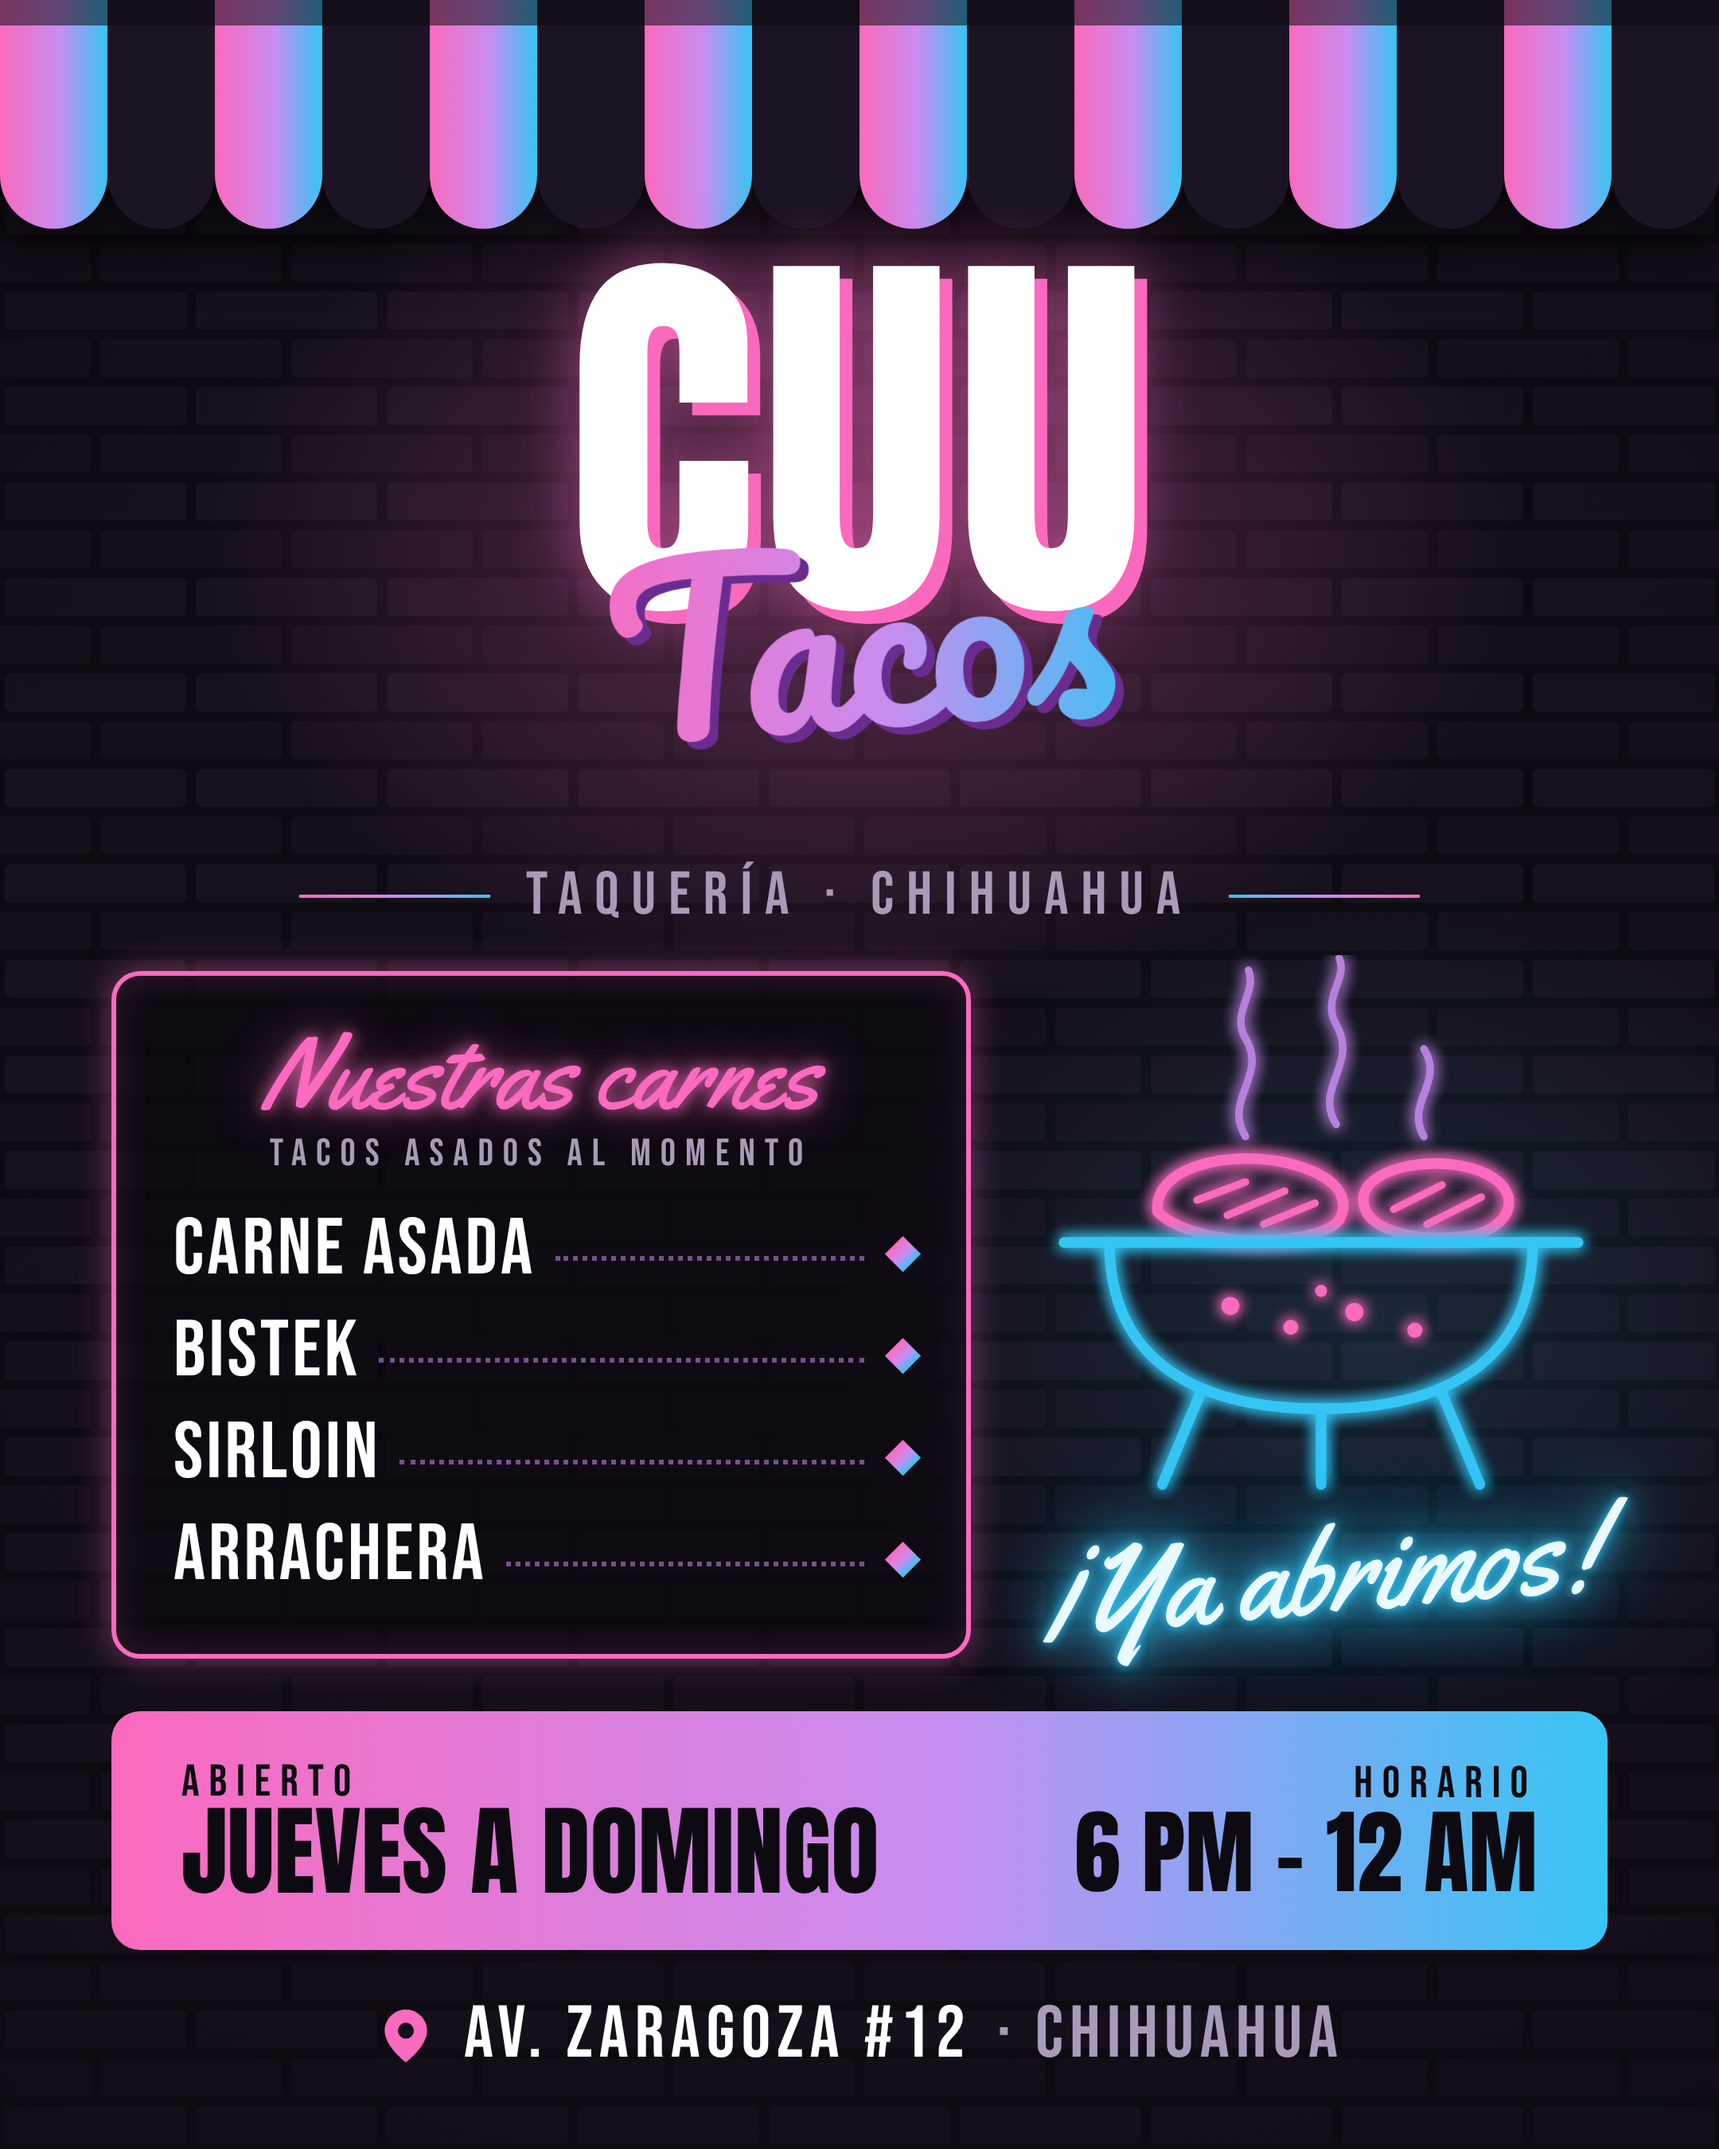
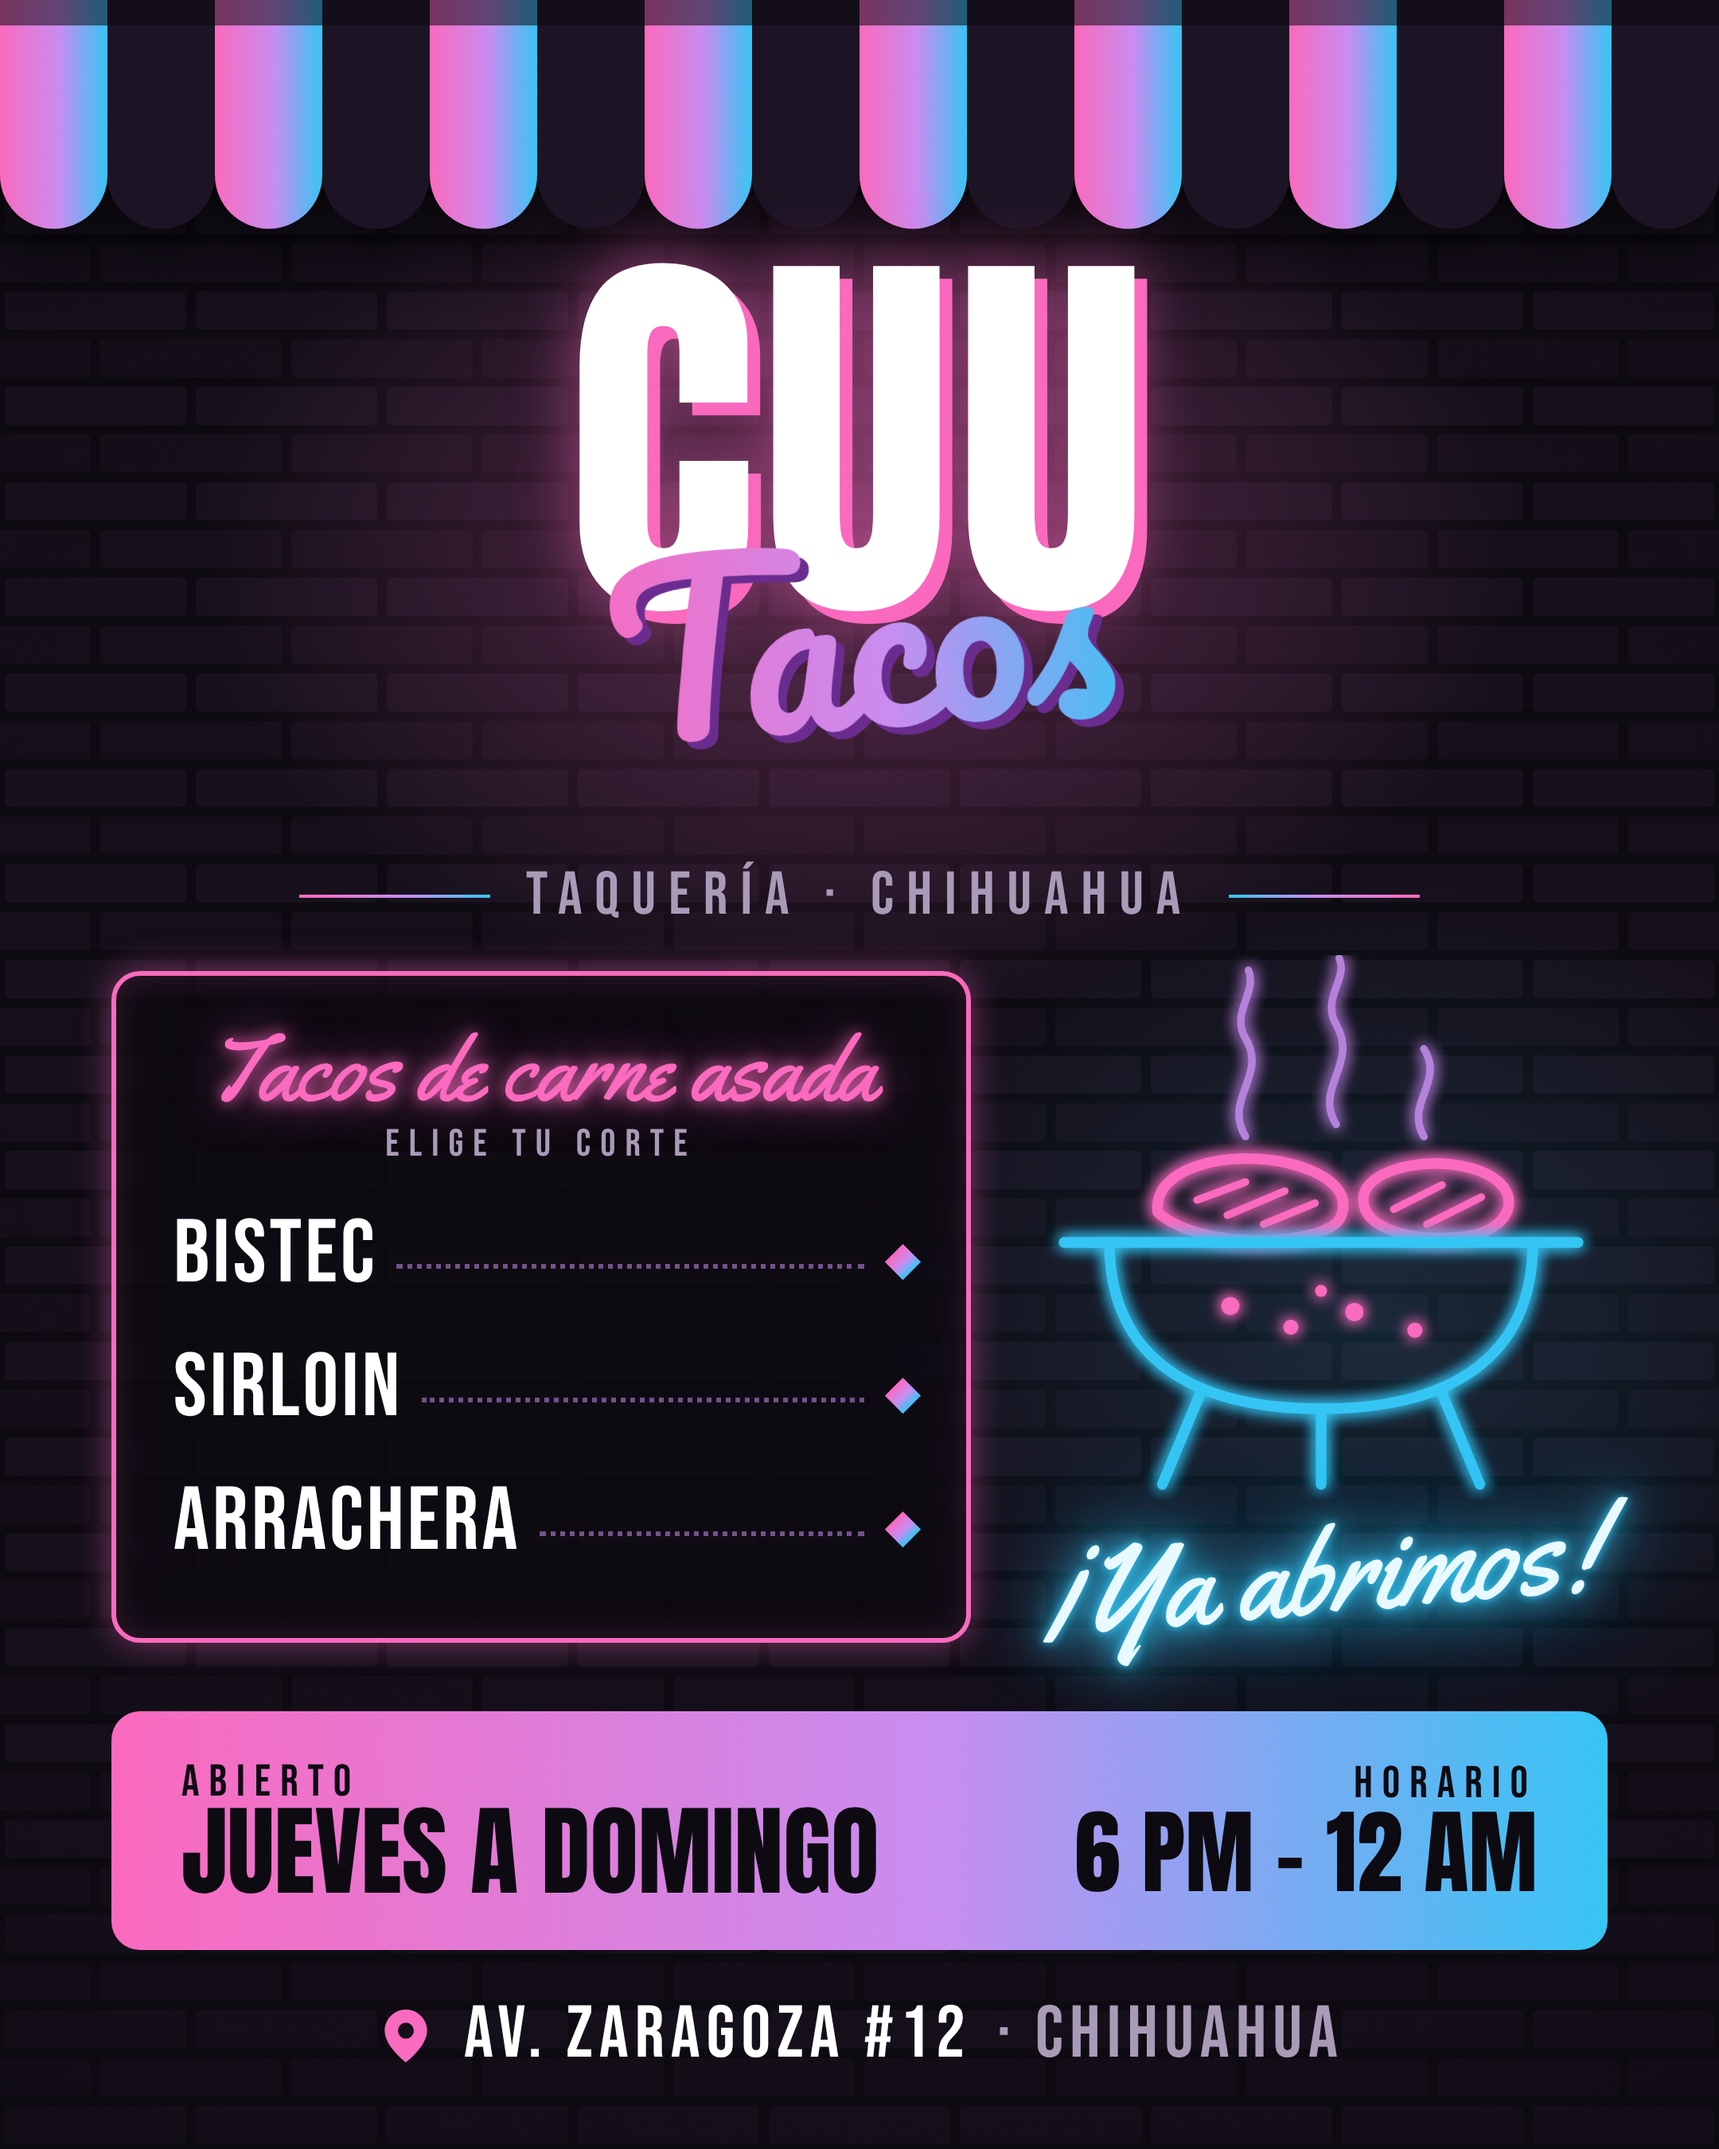
CUU Tacos flyer: carne asada as menu title, list bistec/sirloin/arrachera
Claude-Session: https://claude.ai/code/session_014CHHJhy7rNb7XQQ2cW4zXW

Changed region(s): [[0.062, 0.4667, 0.5583, 0.7778], [0.4963, 0.56, 0.5273, 0.5911]]

diff --git a/flyers/cuu-tacos/flyer.html b/flyers/cuu-tacos/flyer.html
@@ -53,12 +53,12 @@
   .menu { position: absolute; top: 610px; left: 70px; width: 540px; padding: 30px 36px 30px;
     background: rgba(13,10,17,.82); border-radius: 18px;
     border: 3px solid var(--pink); box-shadow: 0 0 22px rgba(250,106,190,.45), inset 0 0 22px rgba(250,106,190,.15); }
-  .menu h3 { font-family: 'Yellowtail', cursive; font-weight: 400; font-size: 64px; line-height: 1; color: var(--pink);
+  .menu h3 { font-family: 'Yellowtail', cursive; font-weight: 400; font-size: 58px; line-height: 1; color: var(--pink);
     text-shadow: 0 0 10px rgba(250,106,190,.9), 0 0 30px rgba(250,106,190,.6); text-align: center; }
   .menu h3 small { display: block; margin-top: 6px; font-family: 'Bebas Neue', sans-serif; font-size: 24px; letter-spacing: 6px; color: var(--muted); text-shadow: none; }
   .menu ul { list-style: none; margin-top: 16px; }
-  .menu li { display: flex; align-items: baseline; gap: 12px; padding: 7px 0; }
-  .menu li b { font-family: 'Bebas Neue', sans-serif; font-weight: 400; font-size: 50px; letter-spacing: 2px; line-height: 1; }
+  .menu li { display: flex; align-items: baseline; gap: 12px; padding: 14px 0; }
+  .menu li b { font-family: 'Bebas Neue', sans-serif; font-weight: 400; font-size: 56px; letter-spacing: 2px; line-height: 1; }
   .menu li i { flex: 1; border-bottom: 3px dotted rgba(200,141,240,.55); transform: translateY(-8px); }
   .menu li span { width: 16px; height: 16px; transform: rotate(45deg) translateY(-6px); background: var(--grad); flex: none; }
 
@@ -131,10 +131,9 @@
     <div class="tagline">Taquería · Chihuahua</div>
 
     <div class="menu">
-      <h3>Nuestras carnes<small>Tacos asados al momento</small></h3>
+      <h3>Tacos de carne asada<small>Elige tu corte</small></h3>
       <ul>
-        <li><b>Carne asada</b><i></i><span></span></li>
-        <li><b>Bistek</b><i></i><span></span></li>
+        <li><b>Bistec</b><i></i><span></span></li>
         <li><b>Sirloin</b><i></i><span></span></li>
         <li><b>Arrachera</b><i></i><span></span></li>
       </ul>
